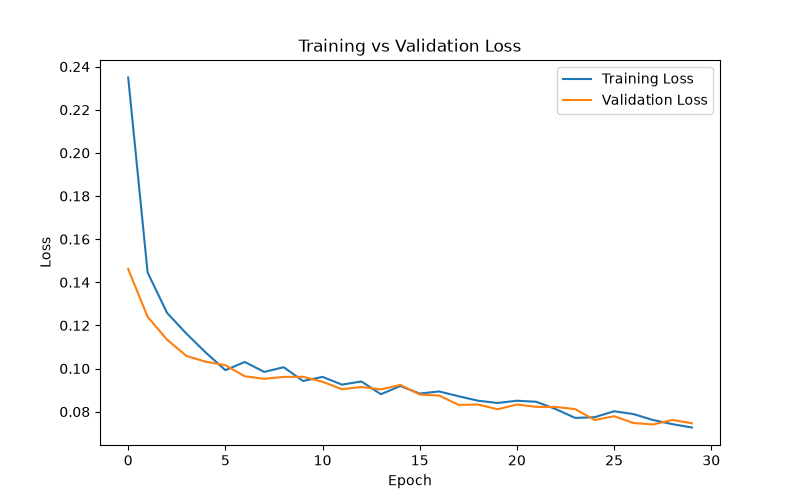
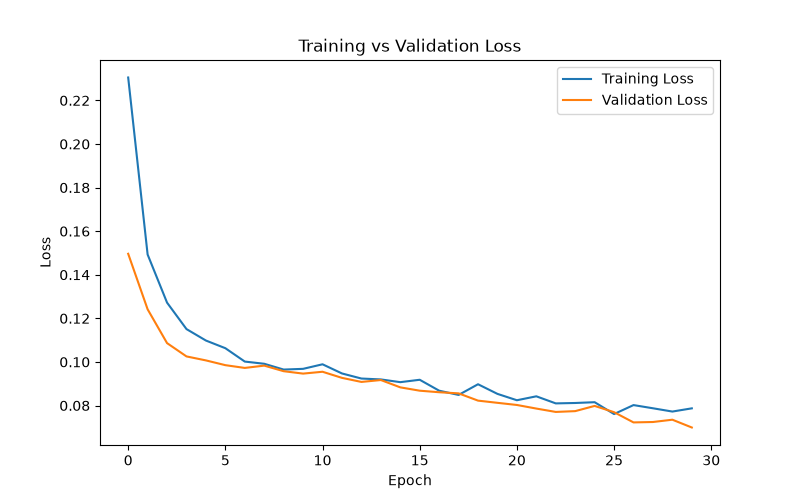
feat: complete phase model comparison

diff --git a/src/ml_train.py b/src/ml_train.py
@@ -1,0 +1,102 @@
+from src.data_loader import load_dataset
+from src.preprocessing import preprocess_data
+from src.train import split_data, scale_features
+#from src.ml_models import build_logistic_regression
+#from src.ml_models import build_decision_tree
+#from src.ml_models import build_random_forest
+#from src.ml_models import build_svm
+from src.ml_models import build_xgboost
+from sklearn.metrics import (
+    accuracy_score,
+    confusion_matrix,
+    classification_report
+)
+
+
+def main():
+
+    # ==========================================================
+    # Load dataset
+    # ==========================================================
+
+    df = load_dataset()
+
+    # ==========================================================
+    # Preprocess dataset
+    # ==========================================================
+
+    X, y = preprocess_data(df)
+
+    # ==========================================================
+    # Train-test split
+    # ==========================================================
+
+    X_train, X_test, y_train, y_test = split_data(X, y)
+
+    # ==========================================================
+    # Feature scaling
+    # ==========================================================
+
+    X_train, X_test, scaler = scale_features(
+        X_train,
+        X_test
+    )
+
+    # ==========================================================
+    # Build model
+    # ==========================================================
+
+    #model = build_logistic_regression()
+    #model = build_decision_tree()
+    #model = build_random_forest()
+    #model = build_svm()
+    model = build_xgboost()
+
+    # ==========================================================
+    # Train model
+    # ==========================================================
+
+    print("\n" + "=" * 70)
+    print("XGBOOST TRAINING")
+    print("=" * 70)
+
+    model.fit(X_train.to_numpy(), y_train)
+
+    # ==========================================================
+    # Prediction
+    # ==========================================================
+
+    y_pred = model.predict(X_test.to_numpy())
+
+    # ==========================================================
+    # Evaluation
+    # ==========================================================
+
+    accuracy = accuracy_score(y_test, y_pred)
+    cm = confusion_matrix(y_test, y_pred)
+
+    print("\n" + "=" * 70)
+    print("XGBOOST EVALUATION")
+    print("=" * 70)
+
+    print(f"\nTest Accuracy : {accuracy:.4f}")
+
+    print("\n" + "=" * 70)
+    print("CONFUSION MATRIX")
+    print("=" * 70)
+
+    print(cm)
+
+    print("\n" + "=" * 70)
+    print("CLASSIFICATION REPORT")
+    print("=" * 70)
+
+    print(classification_report(
+        y_test,
+        y_pred,
+        target_names=["No Failure", "Failure"]
+    ))
+
+
+if __name__ == "__main__":
+    main()

diff --git a/src/ml_models.py b/src/ml_models.py
@@ -1,0 +1,56 @@
+from sklearn.linear_model import LogisticRegression
+from sklearn.tree import DecisionTreeClassifier
+from sklearn.ensemble import RandomForestClassifier
+from sklearn.svm import SVC
+from xgboost import XGBClassifier
+
+def build_logistic_regression():
+
+    #logistic regression classifier
+
+    model = LogisticRegression(
+        random_state=42,
+        max_iter=1000
+    )
+
+    return model
+
+def build_decision_tree():
+
+    # decision tree classifier
+
+    model = DecisionTreeClassifier(
+        random_state=42
+    )
+
+    return model
+
+def build_random_forest():
+
+    # random forest classifier
+
+    model = RandomForestClassifier(
+        random_state=42
+    )
+
+    return model
+
+def build_svm():
+    # svm classifier
+
+    model = SVC(
+        random_state=42
+    )
+
+    return model
+
+def build_xgboost():
+
+    # xgboost classifier
+
+    model = XGBClassifier(
+        random_state=42,
+        eval_metric="logloss"
+    )
+
+    return model

diff --git a/results/plot_model_comparison.py b/results/plot_model_comparison.py
@@ -1,0 +1,35 @@
+from pathlib import Path
+
+import pandas as pd
+import matplotlib.pyplot as plt
+
+# project paths
+PROJECT_ROOT = Path(__file__).resolve().parent.parent
+
+CSV_PATH = PROJECT_ROOT / "results" / "model_comparison.csv"
+GRAPH_PATH = PROJECT_ROOT / "graphs" / "model_comparison_failure_recall.png"
+
+# load model comparison results
+df = pd.read_csv(CSV_PATH)
+
+# plot failure recall
+plt.figure(figsize=(10, 6))
+
+plt.bar(
+    df["Model"],
+    df["Failure_Recall"]
+)
+
+plt.title("Model Comparison - Failure Recall")
+plt.xlabel("Machine Learning Model")
+plt.ylabel("Failure Recall")
+
+plt.xticks(rotation=30, ha="right")
+plt.ylim(0, 1)
+
+plt.tight_layout()
+
+# save graph
+plt.savefig(GRAPH_PATH)
+
+plt.show()
